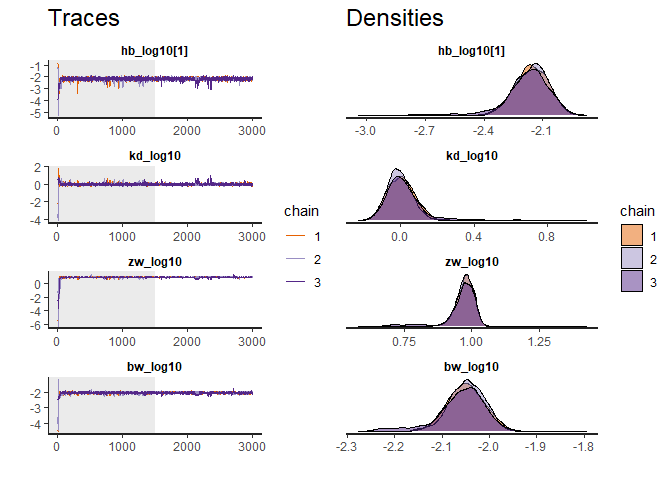
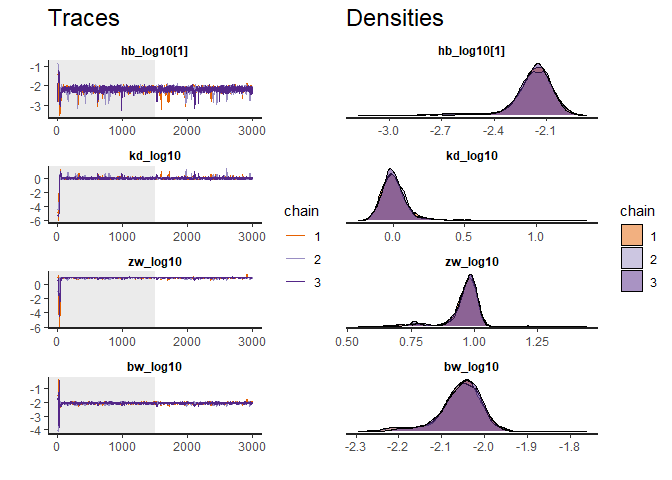
Prepare for release v1.1.3

diff --git a/README.md b/README.md
@@ -40,7 +40,7 @@ This is a basic example which shows you how to solve a common problem:
 
 ``` r
 library(BeeGUTS)
-#> BeeGUTS (Version 1.1.1, packaged on the: )
+#> BeeGUTS (Version 1.1.3, packaged on the: )
 #> - For execution on a local, multicore CPU with excess RAM we recommend calling
 #>       options(mc.cores = parallel::detectCores()-1)
 #> - In addition to the functions provided by 'BeeGUTS', we recommend using the packages:
@@ -98,16 +98,16 @@ summary(fit) # Gives a summary of the results
 #> Posteriors of the parameters (quantiles) (select with '$Qposteriors'):
 #> 
 #>  parameters      median        Q2.5       Q97.5
-#>       hb[1] 6.96115e-03 4.13864e-03 1.00067e-02
+#>       hb[1] 6.88053e-03 2.53108e-03 1.00538e-02
 #>  parameters      median        Q2.5       Q97.5
-#>          kd 9.95000e-01 7.31699e-01 1.75382e+00
-#>          zw 9.47898e+00 6.86992e+00 1.06977e+01
-#>          bw 8.93266e-03 6.98425e-03 1.06284e-02
+#>          kd 9.97012e-01 7.25191e-01 2.30604e+00
+#>          zw 9.44638e+00 5.62942e+00 1.07292e+01
+#>          bw 8.88840e-03 6.22759e-03 1.06406e-02
 #> 
 #> 
-#>  Maximum Rhat computed (na.rm = TRUE): 1.027004 
-#>  Minimum Bulk_ESS: 514 
-#>  Minimum Tail_ESS: 143 
+#>  Maximum Rhat computed (na.rm = TRUE): 1.007025 
+#>  Minimum Bulk_ESS: 617 
+#>  Minimum Tail_ESS: 295 
 #>  Bulk_ESS and Tail_ESS are crude measures of effecting sampling size for
 #>       bulk and tail quantities respectively. An ESS > 100 per chain can be
 #>       considered as a good indicator. Rhat is an indicator of chains convergence.

diff --git a/cran-comments.md b/cran-comments.md
@@ -1,6 +1,3 @@
-## Resubmission
-In this version we have reduced the size of the package as a response to the request from CRAN
-
 ## R CMD check results
 
 0 errors | 0 warnings | 1 note
